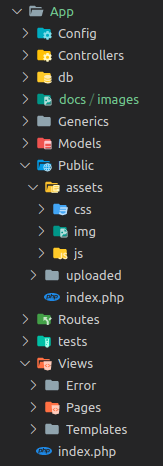
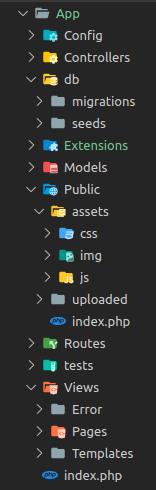
renomeaçao da pasta generics para extensions

Changed region(s): [[0.0769, 0.0, 0.8718, 0.9914], [0.1795, 0.5708, 0.2308, 0.6009], [0.1282, 0.6609, 0.1795, 0.691]]

diff --git a/README.md b/README.md
@@ -113,9 +113,9 @@ Dentro desta pasta ficaram todas as migrations geradas pelo sistema.
 
 Dentro desta pasta ficaram todas as seeds geradas pelo sistema, ao decorrer deste guia sera abordado como gerar migrations, seeds e muito mais utilizando o scooby-do, uma ferramenta de linha de comando.
 
-#### App/Generics
+#### App/Extensions
 
-Nesta pasta pode ser usada para um propósito geral, para a criação de metodos auxiliares, extensão dos helpres, validações, etc...
+Nesta pasta pode ser usada para um propósito geral, para a criação de metodos auxiliares, extensão dos helpers, validações, etc...
 
 #### App/Models
 
